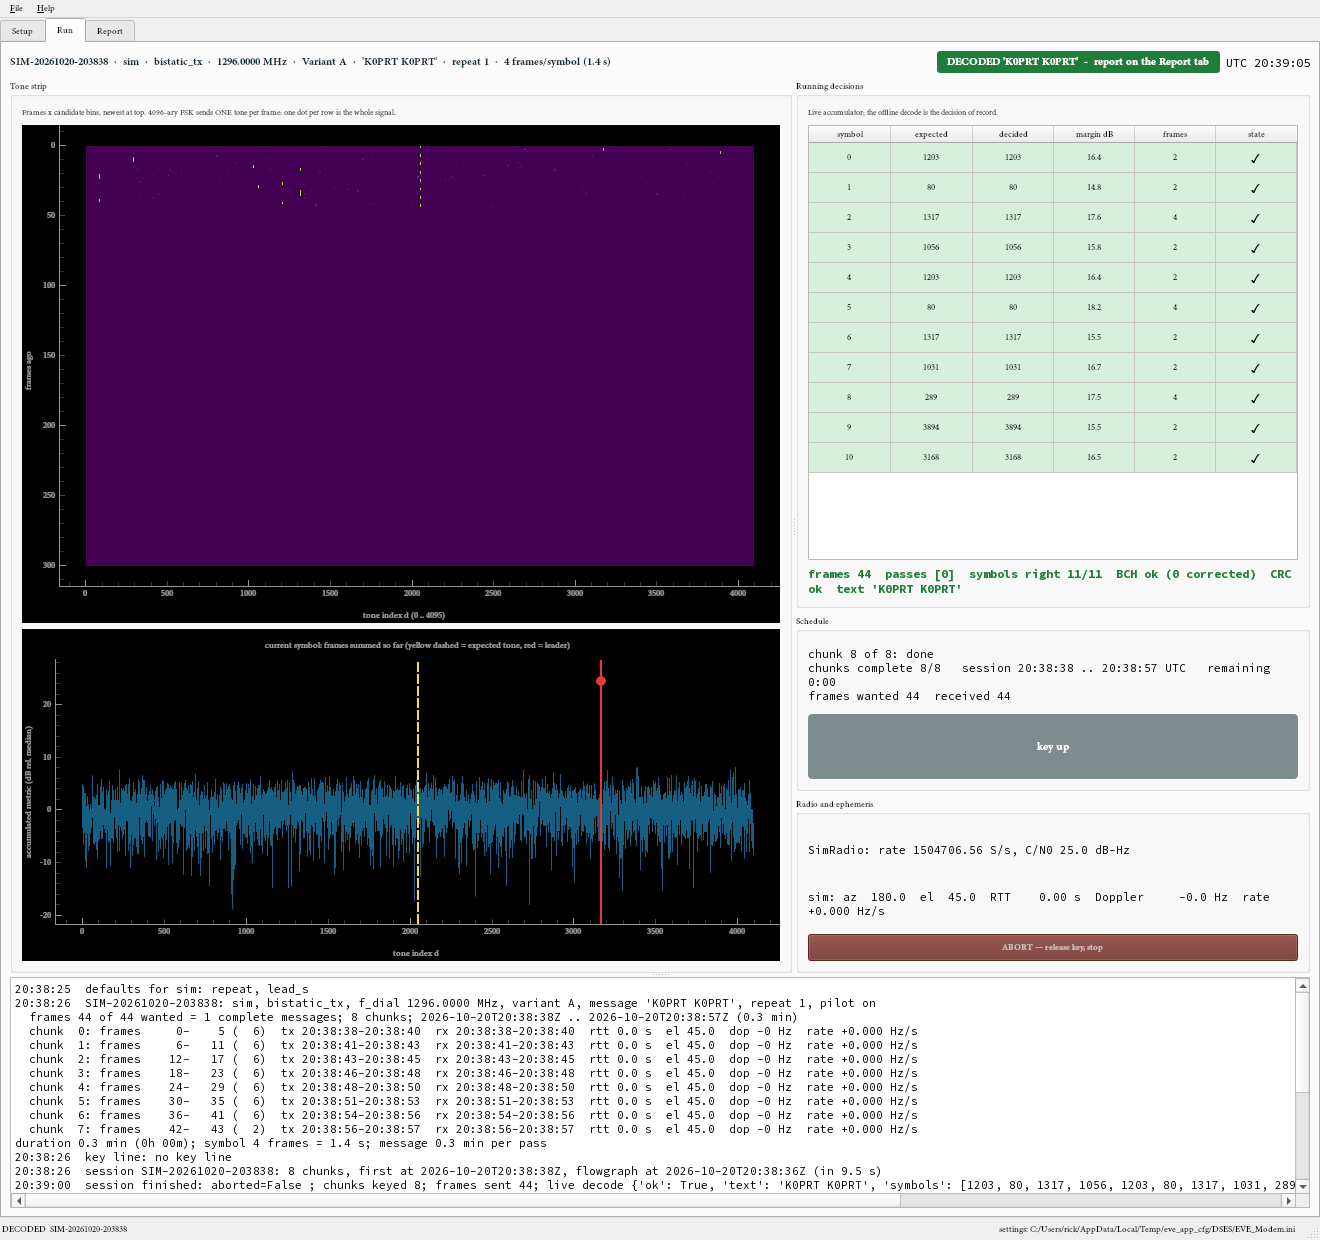
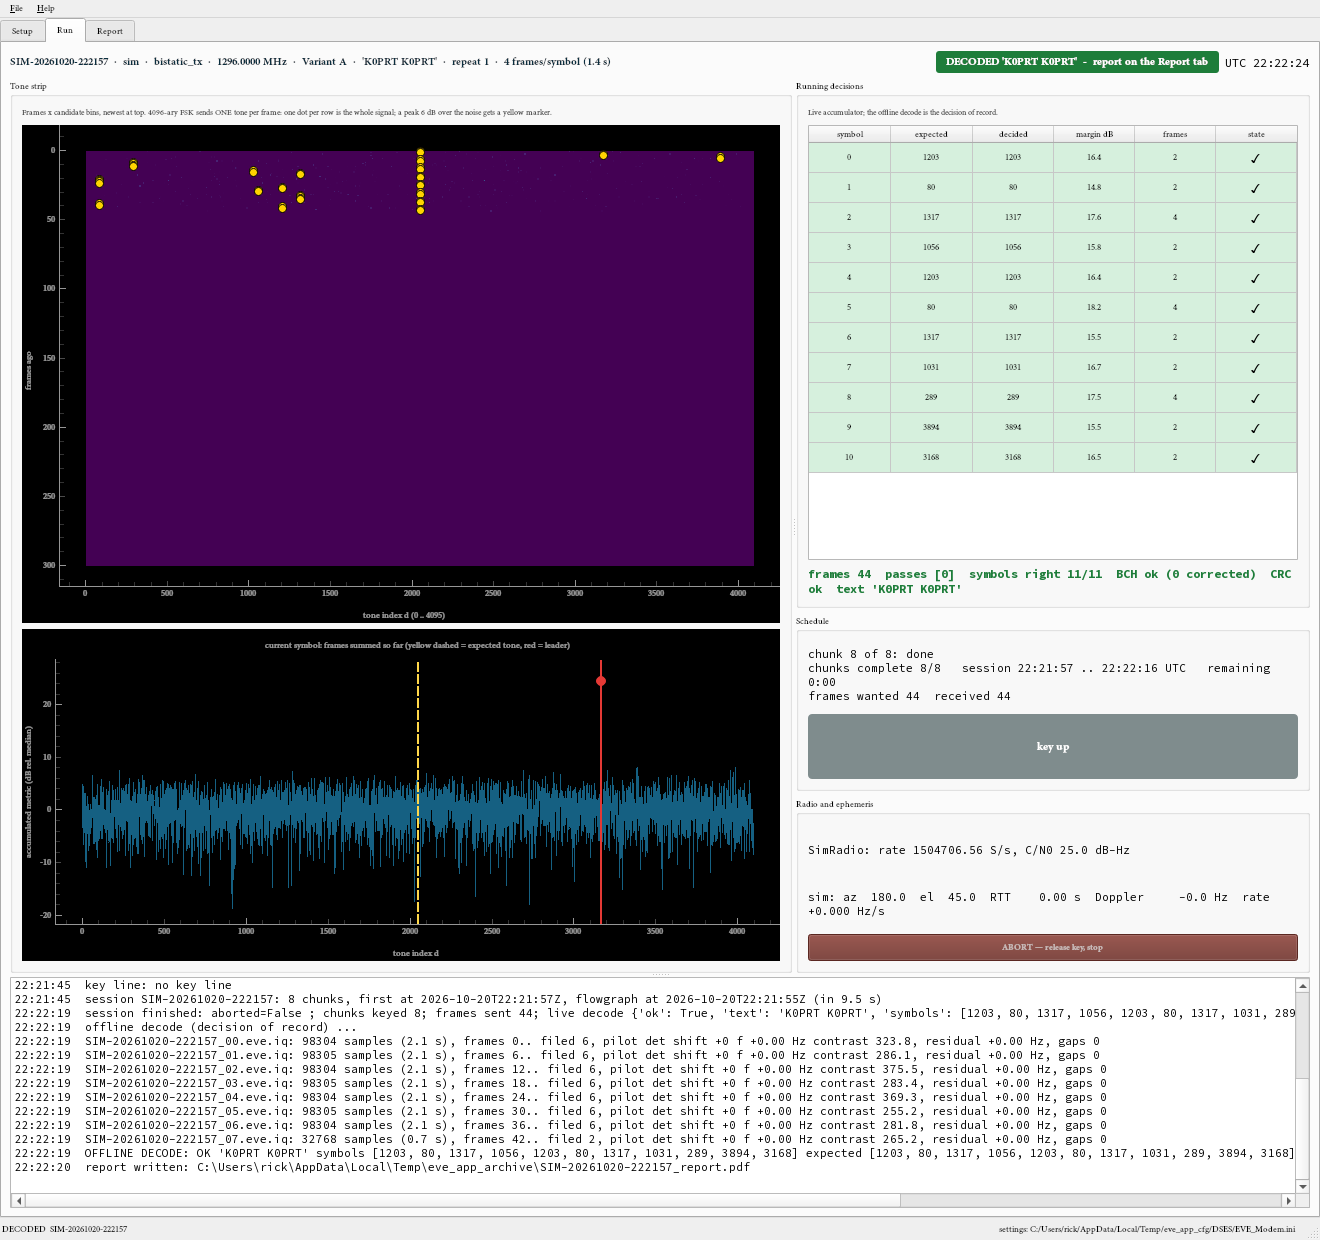
Tone strip: per-frame peaks drawn as fixed-size yellow markers
One pixel per frame at one of 512 collapsed bins was barely visible. The image stays the
honest data; a scatter item marks each frame's peak with an 8-pixel yellow dot when it is
6 dB over the strip median. The threshold is measured: noise-only frames (the Pi archive
of 2026-10-20 after chunk 0) peak at most 3.4 dB over the median, a 25 dB-Hz simulation's
frames at 9 to 10 dB. Captions and tooltip updated; application figures regenerated.

diff --git a/eve/display.py b/eve/display.py
@@ -34,6 +34,9 @@ from . import modem
 TEAL, NAVY, GOLD = "#156082", "#0A2F40", "#B86A18"
 STRIP_ROWS = 300            # frames kept in the tone strip (~105 s of Variant A)
 STRIP_COLS = 512            # candidate bins collapsed 8:1 for display
+STRIP_MARK_DB = 6.0         # a per-frame peak this far over the strip median gets a marker: measured 2026-10-20,
+                            # noise peaks (B210, 512 collapsed bins) reach 3.4 dB, a 25 dB-Hz signal 9-10 dB
+STRIP_MARK_PX = 8           # ... as a marker of this many screen pixels (one image pixel was invisible, Rick 2026-10-20)
 _MONO = None
 
 
@@ -144,10 +147,16 @@ class OperatorPanel(QtWidgets.QWidget):
         strip_box = QtWidgets.QGroupBox("Tone strip")
         vb = QtWidgets.QVBoxLayout(strip_box)
         vb.addWidget(_caption("Frames x candidate bins, newest at top. 4096-ary FSK sends ONE tone per frame: "
-                              "one dot per row is the whole signal."))
+                              "one dot per row is the whole signal; a peak 6 dB over the noise gets a yellow marker."))
         self.strip_plot = pg.PlotWidget()
         self.strip_img = pg.ImageItem()
         self.strip_plot.addItem(self.strip_img)
+        # the per-frame peaks as fixed-size markers over the image: the image stays the honest
+        # data (one pixel per frame and bin), the markers make the tone visible at any zoom
+        self.strip_marks = pg.ScatterPlotItem(size=STRIP_MARK_PX, pxMode=True, pen=pg.mkPen("#000000", width=1),
+                                              brush=pg.mkBrush("#FFD400"), symbol="o")
+        self.strip_marks.setZValue(10)
+        self.strip_plot.addItem(self.strip_marks)
         self.strip_plot.setLabel("bottom", "tone index d (0 .. 4095)")
         self.strip_plot.setLabel("left", "frames ago")
         self.strip_plot.invertY(True)
@@ -246,7 +255,8 @@ class OperatorPanel(QtWidgets.QWidget):
         # operator help
         strip_box.setToolTip("Each row is one frame (0.35 s); each column a candidate tone (4096 collapsed to 512). "
                              "The waveform sends ONE tone per frame, so a healthy signal is a single bright dot per "
-                             "row that steps to a new column at every symbol boundary; the pilot is a steady column "
+                             "row that steps to a new column at every symbol boundary (a peak 6 dB over the noise gets a "
+                             "yellow marker so it can be seen; noise peaks stay below 4 dB); the pilot is a steady column "
                              "before each pass. Background texture = receiver noise; adjust RX gain so it is visible "
                              "but not saturated. Nothing at all = no signal, wrong gain, or the receive window is closed.")
         self.spec_plot.setToolTip("The metric of the symbol now in progress, summed over its frames so far. Yellow "
@@ -321,6 +331,7 @@ class OperatorPanel(QtWidgets.QWidget):
         self.model = session.model
         self._strip[:] = 0
         self._strip_k[:] = -1
+        self.strip_marks.setData(x=[], y=[])
         self._row = 0
         self._last_metric = self._last_k = None
         self._frames = 0
@@ -410,7 +421,18 @@ class OperatorPanel(QtWidgets.QWidget):
         if drained:
             img = np.roll(self._strip, -(self._row % STRIP_ROWS), axis=0)[::-1]      # newest at top
             med = float(np.median(img[img > 0])) if np.any(img > 0) else 1.0
-            self.strip_img.setImage(np.log10(np.maximum(img, 1e-12) / med).T, autoLevels=False, levels=(0.2, 1.1))
+            L = np.log10(np.maximum(img, 1e-12) / med)
+            self.strip_img.setImage(L.T, autoLevels=False, levels=(0.2, 1.1))
+            # emphasis: the tone is ONE bin of 512 per row and was invisible at one pixel. A
+            # per-frame peak STRIP_MARK_DB over the strip median gets a yellow marker of
+            # STRIP_MARK_PX screen pixels; below the threshold nothing is marked, so noise
+            # peaks are not dressed up as tones (measured: noise maxima over the 512
+            # collapsed bins reach 3.4 dB, a 25 dB-Hz signal 9-10 dB per frame). Image row 0
+            # is the newest frame (top, invertY).
+            d = L.argmax(axis=1)
+            hot = np.nonzero(L[np.arange(L.shape[0]), d] >= STRIP_MARK_DB / 10.0)[0]
+            scale = self.p.m / STRIP_COLS
+            self.strip_marks.setData(x=(d[hot] + 0.5) * scale, y=hot + 0.5)
             self.strip_img.setRect(QtCore.QRectF(0, 0, self.p.m, STRIP_ROWS))
             # the accumulated metric of the symbol the latest frame belongs to (per-frame
             # spectra cannot show a tone at Venus strength; the sum over frames can)
